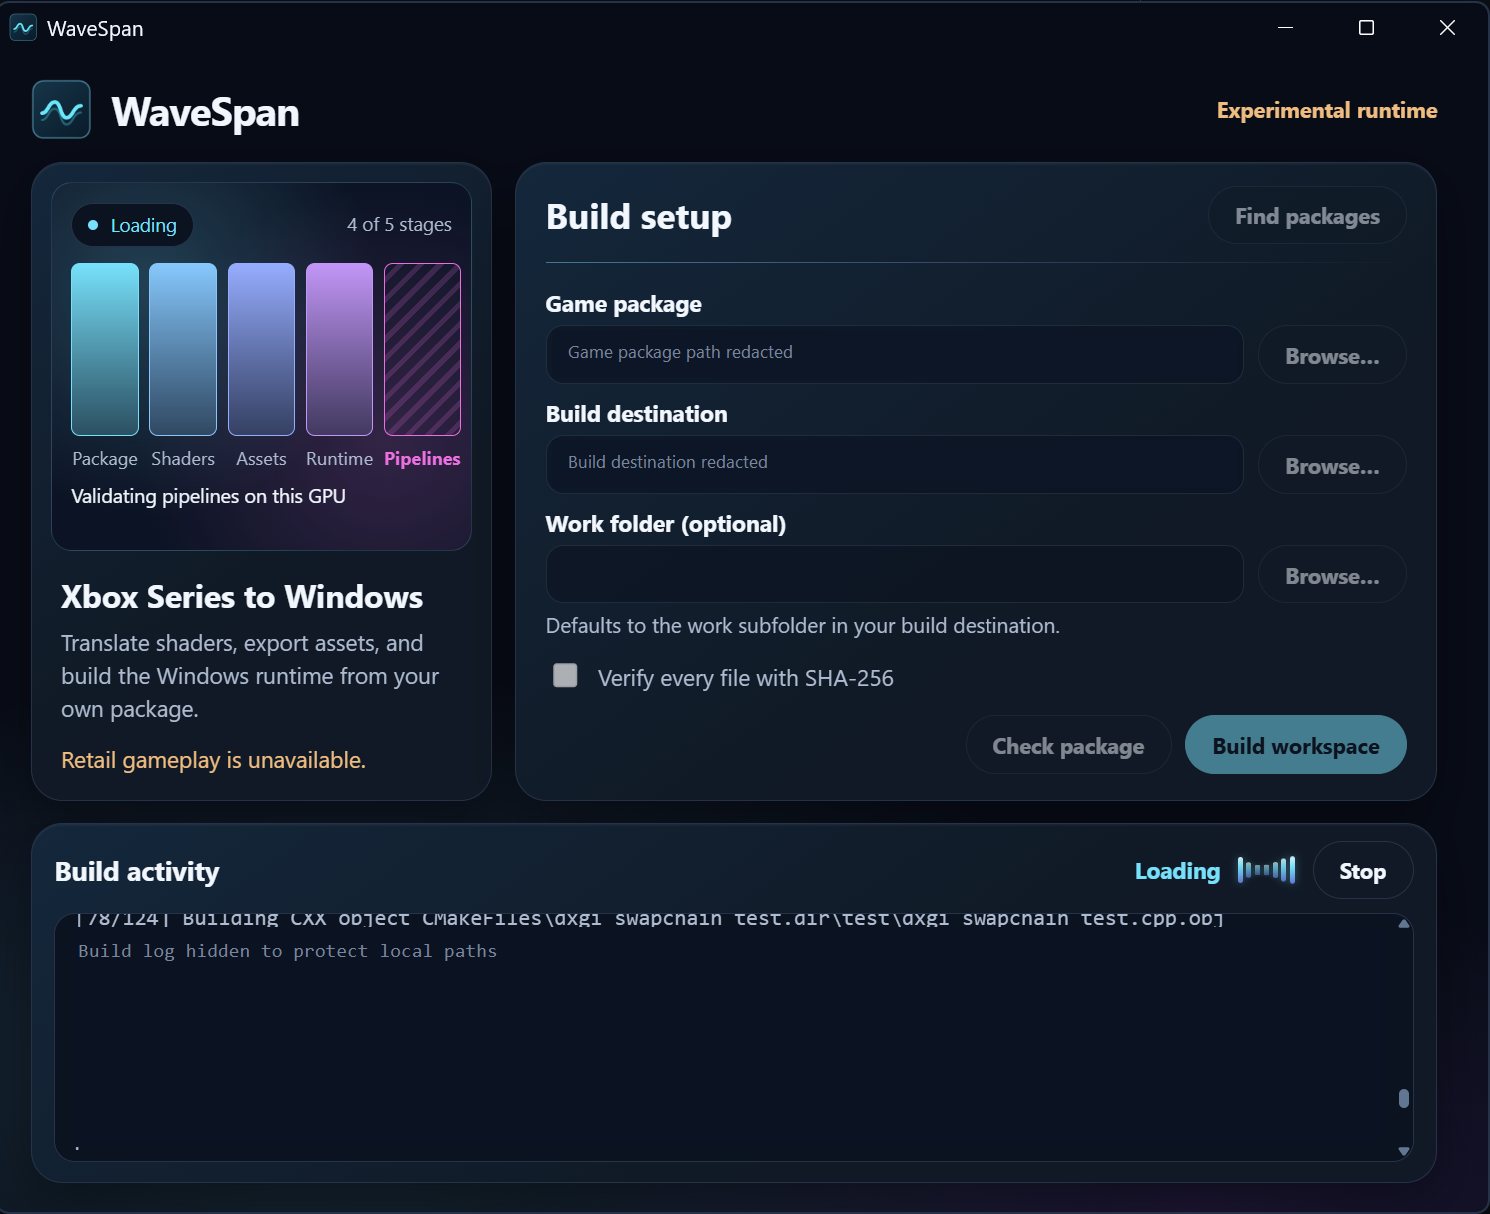
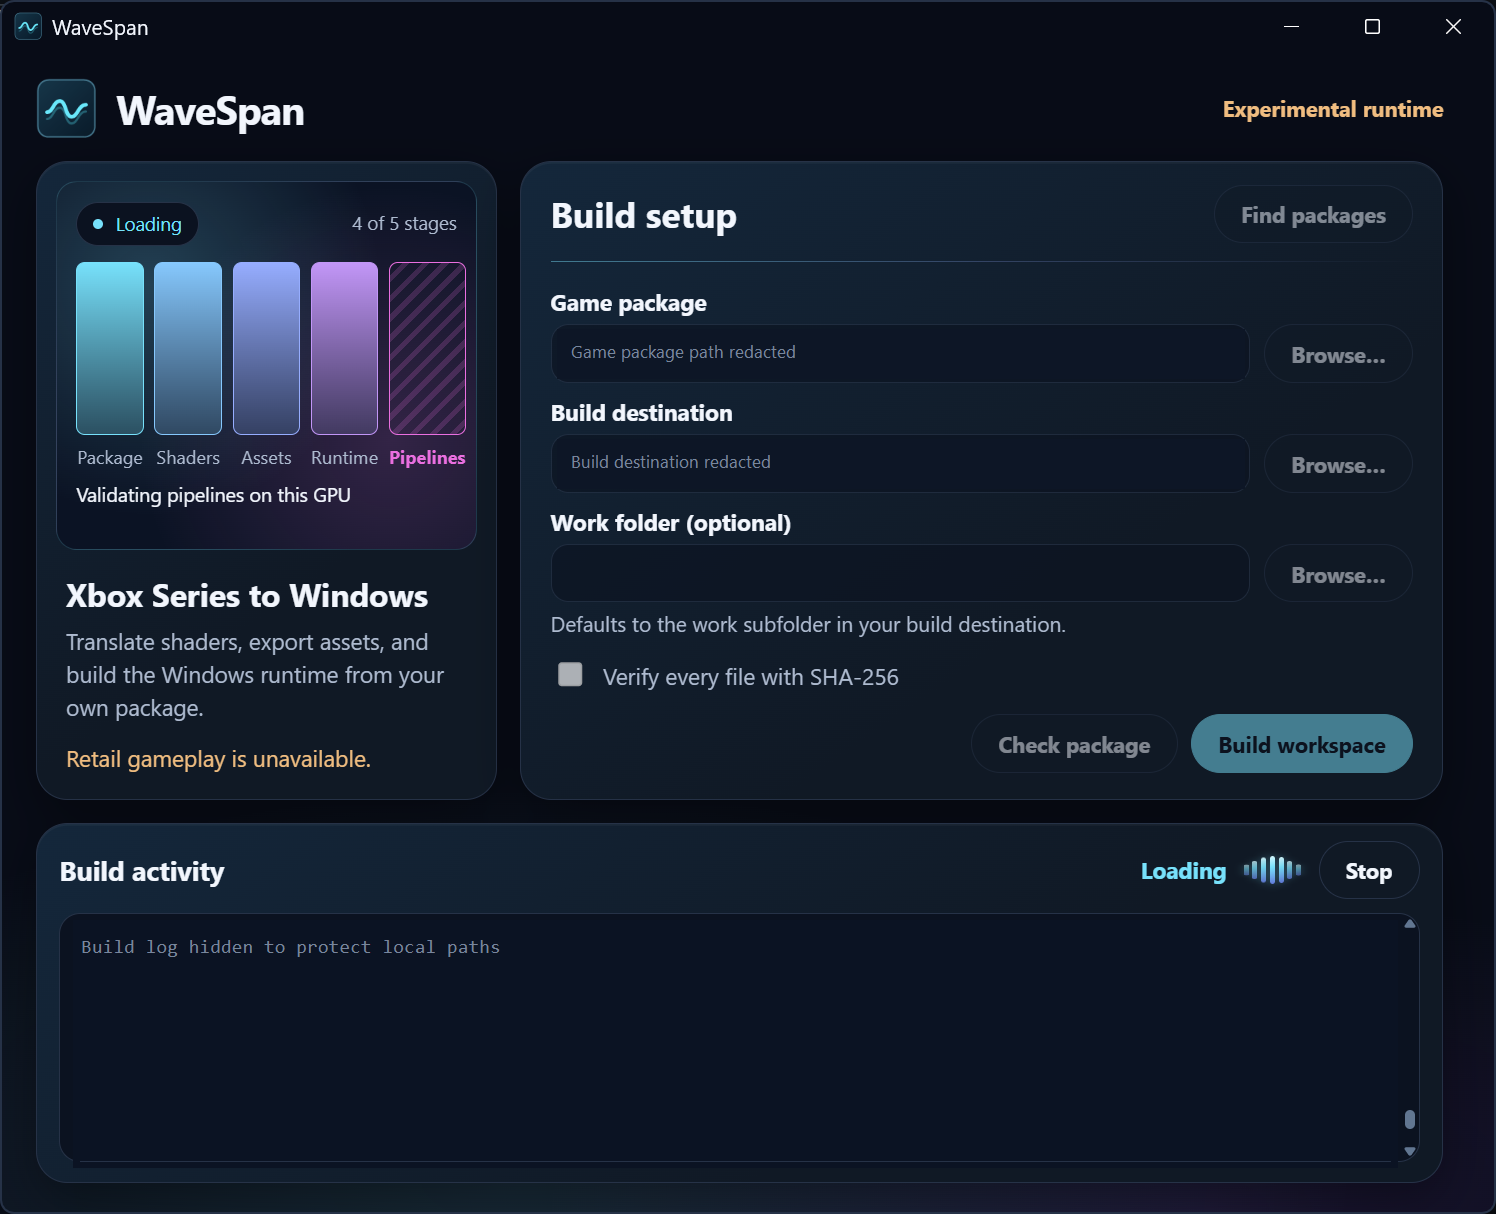
docs: keep launcher screenshot README-only
Replace the README-only screenshot with the supplied image (redacting local paths) and remove the launcher photo and asset from the website build.

diff --git a/website/index.html b/website/index.html
@@ -81,9 +81,6 @@
       </div>
       <a class="button primary" href="https://github.com/LeonardWernke/WaveSpan#how-to-build">Read the build guide</a>
     </section>
-    <div class="wrap launcher-preview">
-      <img src="../docs/wavespan-launcher.png" width="1049" height="798" loading="lazy" alt="WaveSpan Windows launcher showing build setup and build activity with example paths">
-    </div>
   </main>
 
   <footer class="footer wrap">

diff --git a/website/style.css b/website/style.css
@@ -256,14 +256,3 @@ dd a { display: inline-block; margin-top: .4rem; color: var(--accent); }
   .progress-gallery { grid-template-columns:minmax(0, 1fr); }
   .hero.wrap { padding-block:var(--space-3); }
 }
-
-.launcher-preview {
-  padding-bottom: 48px;
-}
-
-.launcher-preview img {
-  display: block;
-  width: min(100%, 1049px);
-  height: auto;
-  margin-inline: auto;
-}
